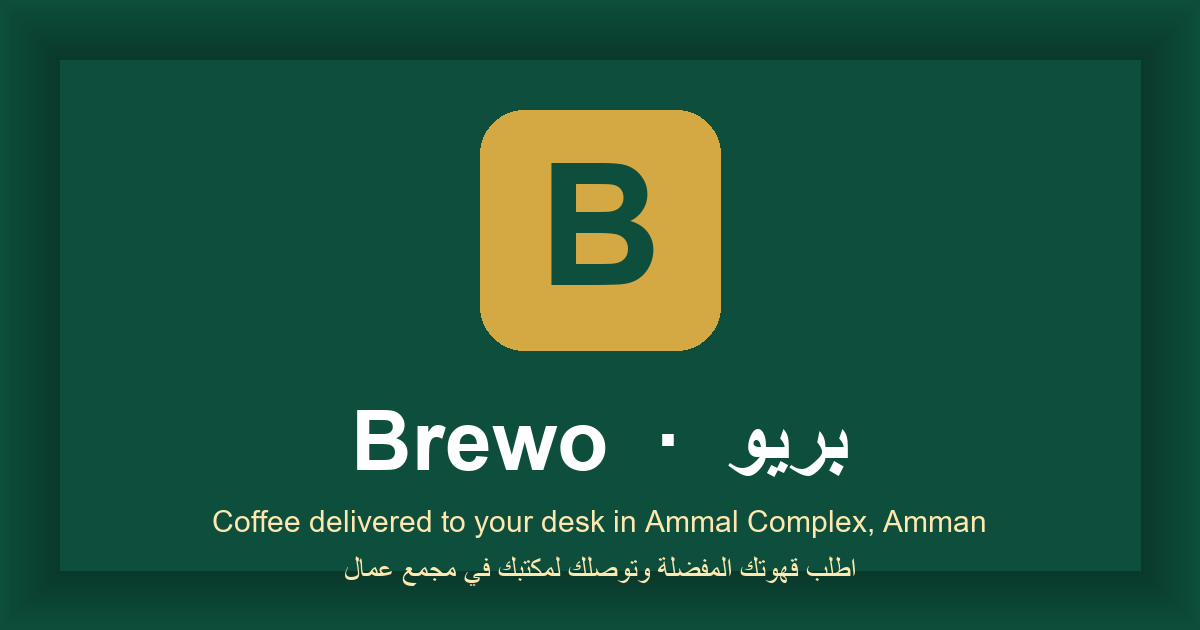
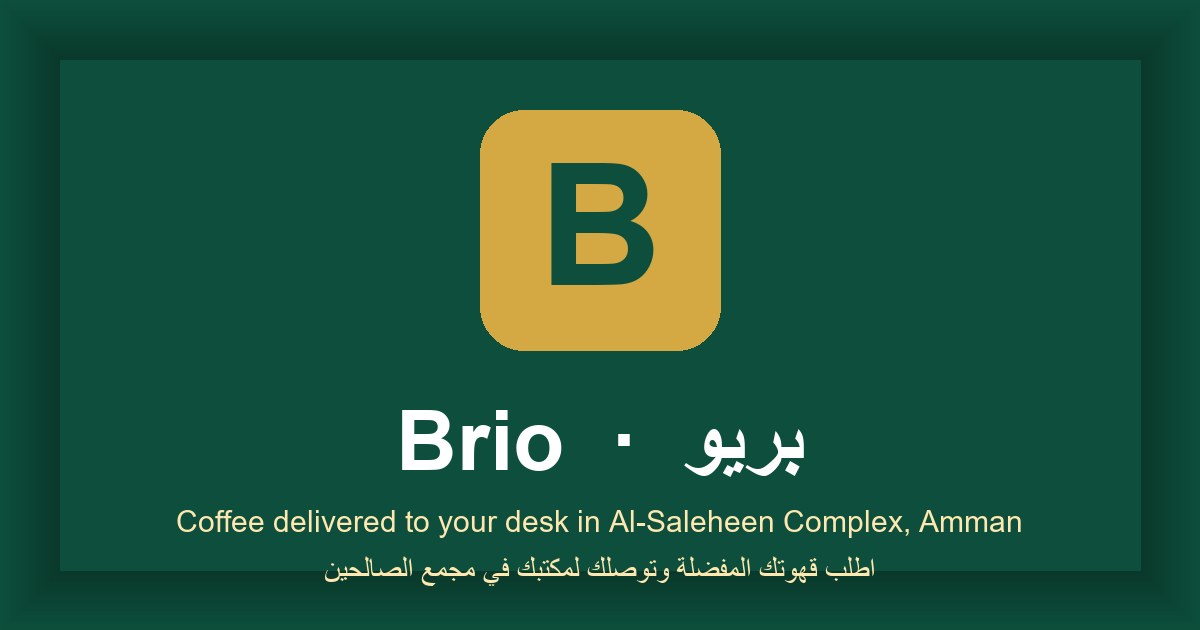
Replace "Ammal Complex" with "Al-Saleheen Complex" in shared metadata
The shared link preview, structured data, share-app text, and the
generated og-image.png were all still referring to "Ammal Complex /
مجمع عمال" — leftover from the original repo. Aligning everything
with the "Al-Saleheen Complex / مجمع الصالحين" naming the user wants
in shared previews, and switching the wordmark to "Brio" so it
matches the page title.

Updated:
- meta description, keywords
- og:description, og:image:alt, twitter:image:alt
- LocalBusiness streetAddress + areaServed
- TRANSLATIONS.shareText (AR + EN)
- metadata.json description
- public/og-image.png (regenerated; "Brio · بريو" wordmark and
  Al-Saleheen Complex / مجمع الصالحين tagline)
- scripts/generate-og-image.py (source of truth for the PNG)

No app UI / logic / favicon changes.

diff --git a/index.html b/index.html
@@ -4,8 +4,8 @@
   <meta charset="UTF-8">
   <meta name="viewport" content="width=device-width, initial-scale=1.0, maximum-scale=1.0, user-scalable=no" />
   <title>Brio | Your coffee delivered to your door in Al-Saleheen Complex</title>
-  <meta name="description" content="بريو — اطلب قهوتك المفضلة عبر واتساب وتوصلك لمكتبك في مجمع عمال، عمّان. Brewo: order coffee on WhatsApp and get it delivered to your office in Ammal Complex, Amman.">
-  <meta name="keywords" content="بريو, Brewo, Brio Cafe, قهوة, توصيل قهوة, مجمع عمال, عمان, Amman coffee delivery, Ammal Complex">
+  <meta name="description" content="بريو — اطلب قهوتك المفضلة عبر واتساب وتوصلك لمكتبك في مجمع الصالحين، عمّان. Brio: order coffee on WhatsApp and get it delivered to your office in Al-Saleheen Complex, Amman.">
+  <meta name="keywords" content="بريو, Brio, Brio Cafe, قهوة, توصيل قهوة, مجمع الصالحين, عمان, Amman coffee delivery, Al-Saleheen Complex">
   <meta name="author" content="Brewo / Brio Cafe">
   <meta name="theme-color" content="#0D4F3C">
   <meta name="robots" content="index, follow">
@@ -35,13 +35,13 @@
   <meta property="og:type" content="website">
   <meta property="og:site_name" content="Brewo (بريو)">
   <meta property="og:title" content="Brio | Your coffee delivered to your door in Al-Saleheen Complex">
-  <meta property="og:description" content="اطلب قهوتك المفضلة وتوصلك لمكتبك في مجمع عمال، عمّان. Order coffee on WhatsApp, delivered to your desk.">
+  <meta property="og:description" content="اطلب قهوتك المفضلة وتوصلك لمكتبك في مجمع الصالحين، عمّان. Order coffee on WhatsApp, delivered to your desk in Al-Saleheen Complex.">
   <meta property="og:url" content="https://brewo.app/">
   <meta property="og:image" content="https://brio-cafe-fo7a.vercel.app/og-image.png">
   <meta property="og:image:width" content="1200">
   <meta property="og:image:height" content="630">
   <meta property="og:image:type" content="image/png">
-  <meta property="og:image:alt" content="Brewo · بريو — Coffee delivered to your desk in Ammal Complex, Amman">
+  <meta property="og:image:alt" content="Brio · بريو — Coffee delivered to your desk in Al-Saleheen Complex, Amman">
   <meta property="og:locale" content="ar_JO">
   <meta property="og:locale:alternate" content="en_US">
 
@@ -50,7 +50,7 @@
   <meta name="twitter:title" content="Brio | Your coffee delivered to your door in Al-Saleheen Complex">
   <meta name="twitter:description" content="اطلب قهوتك عبر واتساب وتوصلك لمكتبك. Order coffee on WhatsApp, delivered to your desk.">
   <meta name="twitter:image" content="https://brio-cafe-fo7a.vercel.app/og-image.png">
-  <meta name="twitter:image:alt" content="Brewo · بريو — Coffee delivered to your desk in Ammal Complex, Amman">
+  <meta name="twitter:image:alt" content="Brio · بريو — Coffee delivered to your desk in Al-Saleheen Complex, Amman">
 
   <!-- Structured data: LocalBusiness -->
   <script type="application/ld+json">
@@ -64,11 +64,11 @@
     "servesCuisine": ["Coffee", "Tea"],
     "address": {
       "@type": "PostalAddress",
-      "streetAddress": "Ammal Complex (مجمع عمال)",
+      "streetAddress": "Al-Saleheen Complex (مجمع الصالحين)",
       "addressLocality": "Amman",
       "addressCountry": "JO"
     },
-    "areaServed": "Ammal Complex, Amman",
+    "areaServed": "Al-Saleheen Complex, Amman",
     "menu": "https://brewo.app/#drinks"
   }
   </script>
@@ -2153,7 +2153,7 @@
         phoneInvalid: 'رقم الجوال يجب أن يكون 10 أرقام بالضبط (مثال: 07XXXXXXXX)',
         phoneRequired: 'يرجى إدخال رقم الجوال (10 أرقام)',
         shareTitle: 'بريو — قهوتك لعندك',
-        shareText: 'جرب بريو ☕ — اطلب قهوتك وتوصلك لمكتبك في مجمع عمال',
+        shareText: 'جرب بريو ☕ — اطلب قهوتك وتوصلك لمكتبك في مجمع الصالحين',
         shareBtn: 'شارك التطبيق',
         linkCopied: 'تم نسخ الرابط',
         confirmYes: 'نعم، خروج',
@@ -2297,7 +2297,7 @@
         phoneInvalid: 'Phone number must be exactly 10 digits (e.g. 07XXXXXXXX)',
         phoneRequired: 'Please enter your phone number (10 digits)',
         shareTitle: 'Brewo — coffee to your desk',
-        shareText: 'Try Brewo ☕ — order coffee delivered to your office in Ammal Complex',
+        shareText: 'Try Brio ☕ — order coffee delivered to your office in Al-Saleheen Complex',
         shareBtn: 'Share app',
         linkCopied: 'Link copied',
         confirmYes: 'Yes, log out',

diff --git a/scripts/generate-og-image.py b/scripts/generate-og-image.py
@@ -82,7 +82,7 @@ def main():
         "arialbd.ttf", "Arial Bold.ttf", "tahomabd.ttf",
         "DejaVuSans-Bold.ttf", "verdanab.ttf"
     ], 84)
-    wordmark = "Brewo  ·  " + shape_ar("بريو")
+    wordmark = "Brio  ·  " + shape_ar("بريو")
     wbbox = draw.textbbox((0, 0), wordmark, font=word_font)
     ww, wh = wbbox[2] - wbbox[0], wbbox[3] - wbbox[1]
     draw.text(
@@ -101,8 +101,8 @@ def main():
         draw.text(((W - tw) // 2 - bb[0], y - bb[1]),
                   text, fill=fill, font=tag_font)
 
-    centered("Coffee delivered to your desk in Ammal Complex, Amman", 510, GOLD_TEXT)
-    centered(shape_ar("اطلب قهوتك المفضلة وتوصلك لمكتبك في مجمع عمال"), 555, GOLD_TEXT)
+    centered("Coffee delivered to your desk in Al-Saleheen Complex, Amman", 510, GOLD_TEXT)
+    centered(shape_ar("اطلب قهوتك المفضلة وتوصلك لمكتبك في مجمع الصالحين"), 555, GOLD_TEXT)
 
     OUT.parent.mkdir(parents=True, exist_ok=True)
     img.save(OUT, "PNG", optimize=True)
